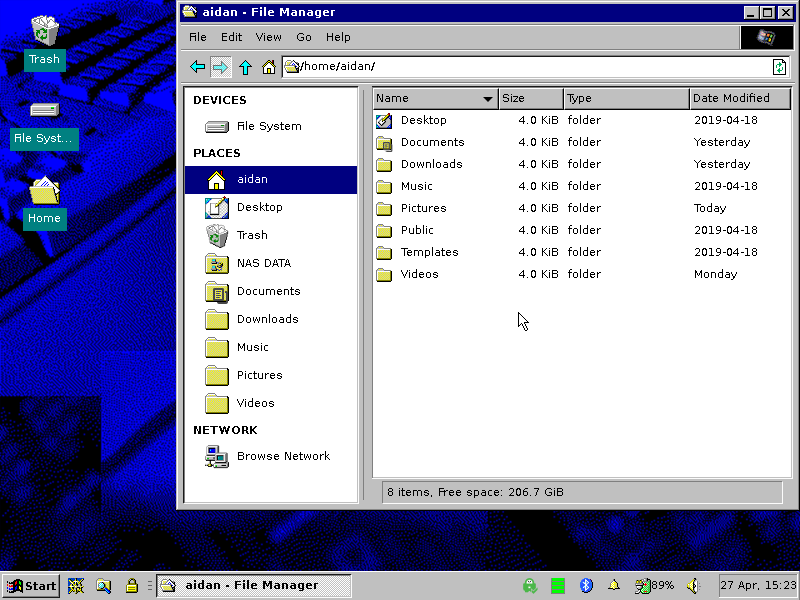
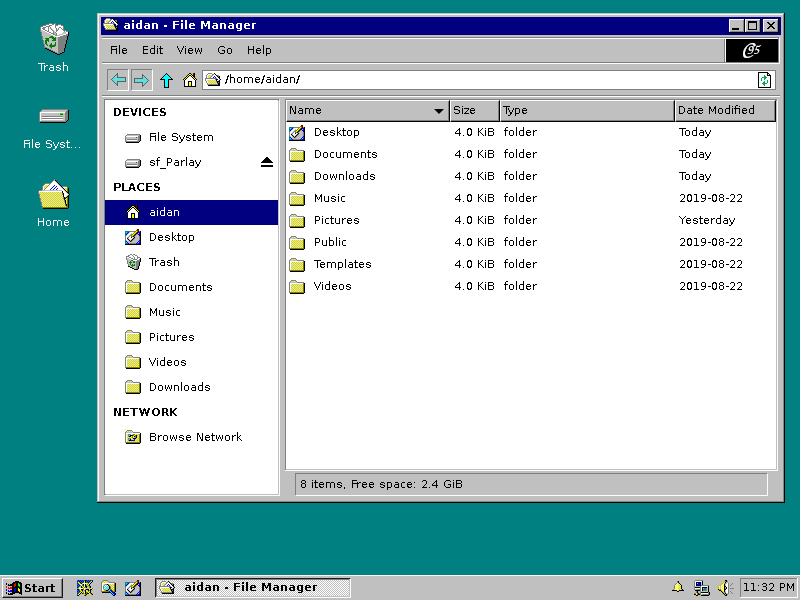
Theme Update

diff --git a/Theme/Chicago95/gtk-3.24/apps/xfce.css b/Theme/Chicago95/gtk-3.24/apps/xfce.css
@@ -30,7 +30,8 @@ XfdesktopIconView.view {
   #xfce4-notification-plugin,
   #pulseaudio-button,
   #xfce4-power-manager-plugin,
-  #indicator-button {
+  #indicator-button,
+  #showdesktop-button {
     padding: 0px;
     border: transparent;
     /*box-shadow: inset 0px 1px white;*/
@@ -59,12 +60,21 @@ XfdesktopIconView.view {
       box-shadow: none;
       color: @panel_fg_color_bright;
       background-color: @selected_bg_color; }
+    #showdesktop-button:checked {
+      border-bottom: 1px solid @bg_bright;
+      border-right: 1px solid @bg_bright;
+      border-top: 1px solid @bg_dark;
+      border-left: 1px solid @bg_dark;
+      box-shadow: inset -1px -1px @bg_color, inset 1px 1px @bg_shade; }
+    
 
 #clock-button {
   border: 2px solid transparent;
   box-shadow: inset 1px 1px @bg_shade, inset -1px -1px @bg_bright;
   margin: 0px;
   background-color: transparent; }
+  #clock-button label {
+    padding: 2px; }
 
 /*  Workspace switcher */
 wnck-pager {
@@ -82,14 +92,22 @@ wnck-pager {
   margin: 0px;
   background-color: transparent; }
   .tasklist .toggle box {
+    transition: 0s font-weight, border-left, border-right, border-top, border-bottom, box-shadow;
     margin: 2px;
     border-left: 1px solid @bg_bright;
     border-top: 1px solid @bg_bright;
     border-right: 1px solid @bg_dark;
     border-bottom: 1px solid @bg_dark;
     box-shadow: inset -1px -1px @bg_shade; }
-    .tasklist .toggle:checked box,
     .tasklist .toggle:active box {
+      font-weight: bold;
+      border-left: 1px solid @bg_dark;
+      border-top: 1px solid @bg_dark;
+      border-right: 1px solid @bg_bright;
+      border-bottom: 1px solid @bg_bright;
+      box-shadow: inset 1px 1px @bg_shade, inset -1px -1px @bg_color;
+      transition-delay: 1s; }
+    .tasklist .toggle:checked box {
       /*font-family: "NotoSans-Bold";*/
       font-weight: bold;
       border-left: 1px solid @bg_dark;
@@ -99,10 +117,10 @@ wnck-pager {
       box-shadow: inset 1px 1px @bg_shade, inset -1px -1px @bg_color;
       background-color: @border_bright;
       background-image: linear-gradient(45deg, @bg_color 25%, transparent 25%, transparent 75%, @bg_color 75%, @bg_color), linear-gradient(45deg, @bg_color 25%, transparent 25%, transparent 75%, @bg_color 75%, @border_dark);
-       background-size: 2px 2px;
-       background-position: 0 0, 1px 1px; }
-       .tasklist .toggle label {
-         margin-right: 4px; }
+      background-size: 2px 2px;
+      background-position: 0 0, 1px 1px; }
+      .tasklist .toggle label {
+        margin-right: 4px; }
 
 /* XFCE APP: Color Profiles */
 .color-profiles {

diff --git a/Theme/Chicago95/gtk-3.24/apps/thunar.css b/Theme/Chicago95/gtk-3.24/apps/thunar.css
@@ -62,6 +62,9 @@
     border-right: 1px solid @bg_bright;
     box-shadow: inset 1px 1px @bg_shade; }
 
+.thunar toolbar toolitem entry image.left {
+  margin-right: 4px; }
+
 .thunar #main-menu {
   border-top: 1px solid @bg_shade;
   box-shadow: inset 0px 1px @bg_bright, inset -1px -1px @bg_shade;

diff --git a/Theme/Chicago95/gtk-3.24/apps/whiskermenu.css b/Theme/Chicago95/gtk-3.24/apps/whiskermenu.css
@@ -37,6 +37,7 @@ the whisker menu without having to correct their pointer location. */
   #whiskermenu-button image,
   #applicationmenu-button image {
     padding: 1px;
+    margin-right: -2px;
     background-repeat: no-repeat;
     background-size: contain;
     background-position: center; }

diff --git a/Theme/Chicago95/gtk-3.0/gtk-widgets.css b/Theme/Chicago95/gtk-3.0/gtk-widgets.css
@@ -1679,6 +1679,9 @@ tabs arrow.up {
     background-position: 5px 10px; 
 }
 
+#gtk-combobox-popup-menu arrow  {
+  -gtk-icon-source: none; }
+
 /*******************
  * slider / switch *
  *******************/

diff --git a/Theme/Chicago95/gtk-3.24/gtk-widgets.css b/Theme/Chicago95/gtk-3.24/gtk-widgets.css
@@ -1679,6 +1679,9 @@ tabs arrow.up {
     background-position: 5px 10px; 
 }
 
+#gtk-combobox-popup-menu arrow  {
+  -gtk-icon-source: none; }
+
 /*******************
  * slider / switch *
  *******************/

diff --git a/Extras/override/gtk-3.24/gtk.css b/Extras/override/gtk-3.24/gtk.css
@@ -24,3 +24,7 @@
 /* XFCE APP: Color Profiles */
 .color-profiles {
   background-color: #c0c0c0; }
+
+/* Thunar sidebar border */
+.thunar .sidebar {
+  border-right: 1px solid @bg_bright; }
